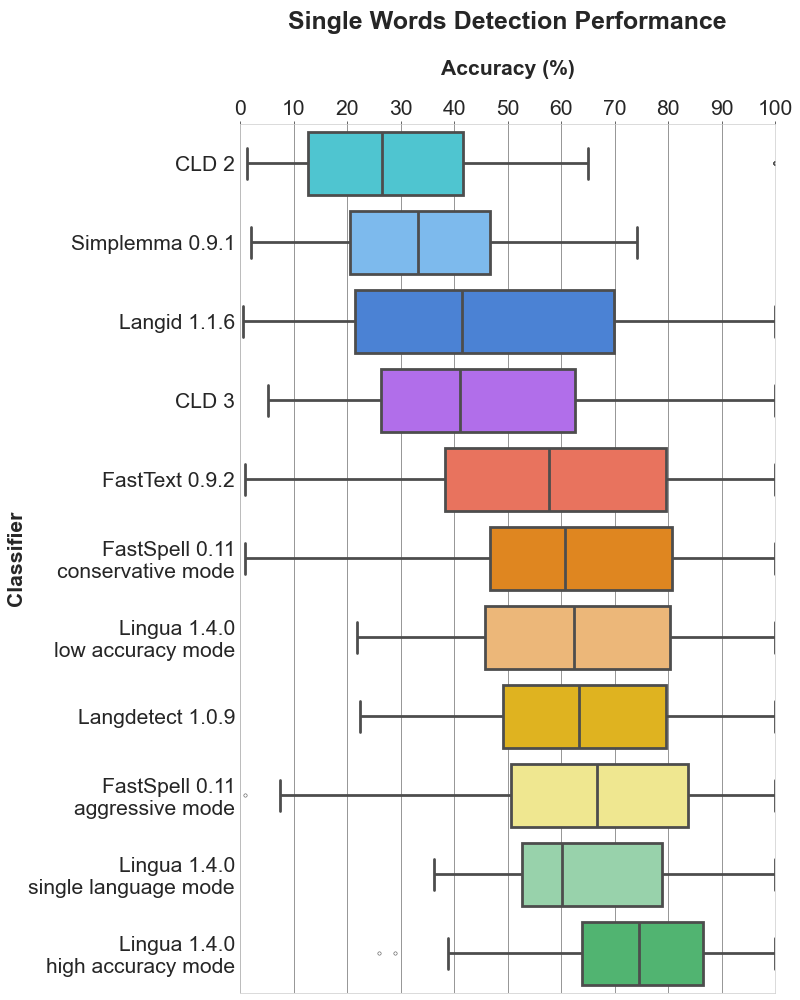
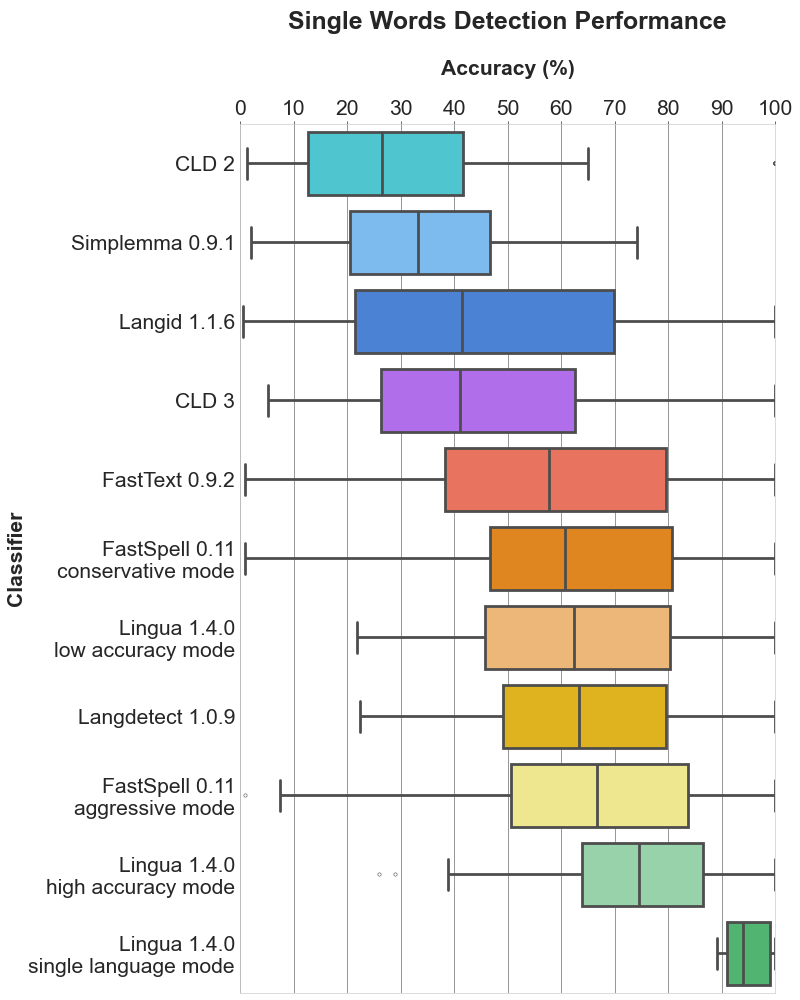
Draw single language mode box plots

diff --git a/scripts/accuracy_plot_drawer.py b/scripts/accuracy_plot_drawer.py
@@ -49,6 +49,9 @@ class AccuracyPlotDrawer:
         "lingua-single-language-detector": "Lingua 1.4.0\nsingle language mode",
         "simplemma": "Simplemma 0.9.1",
     }
+    _single_language_mode_columns = [
+        f"lingua-{language.name.lower()}-detector" for language in Language
+    ]
     _hatches = ("|", "-", "/", "x", "+", "\\", "o", "oo", ".", "*", "O")
     _palette = (
         "#39d7e6",
@@ -72,17 +75,13 @@ class AccuracyPlotDrawer:
     def _read_into_dataframe(self, report_file_path: Path) -> pd.DataFrame:
         df = pd.read_csv(report_file_path, index_col="language")
 
-        single_language_mode_columns = [
-            f"lingua-{language.name.lower()}-detector" for language in Language
-        ]
         merged_single_language_mode_column = {
-            "lingua-single-language-detector": df[single_language_mode_columns].mean(
-                axis="columns"
-            )
+            "lingua-single-language-detector": df[
+                self._single_language_mode_columns
+            ].mean(axis="columns")
         }
-        df = df.assign(**merged_single_language_mode_column).drop(
-            single_language_mode_columns, axis="columns"
-        )
+
+        df = df.assign(**merged_single_language_mode_column)
 
         # Sort classifier columns by their mean value
         df = df.reindex(df.mean().sort_values().index, axis="columns")
@@ -185,6 +184,48 @@ class AccuracyPlotDrawer:
         plt.tight_layout()
         plt.savefig(file_path, dpi=self._dpi)
 
+    def draw_single_language_mode_boxplot(self, file_path: Path):
+        row_filter = self._dataframe[self._hue].isin(self._single_language_mode_columns)
+        data = self._dataframe[row_filter]
+        labels = [language.name.title() for language in Language]
+
+        plt.figure(figsize=(20, 150))
+        plt.title(
+            self._plot_title + "\nSingle Language Mode\n",
+            fontsize=self._title_fontsize,
+            fontweight=self._fontweight,
+        )
+        plt.xticks(fontsize=self._ticks_fontsize, ticks=self._ticks)
+        plt.yticks(fontsize=self._ticks_fontsize)
+        plt.grid(color=self._grid_color)
+
+        axes = sns.boxplot(
+            data=data,
+            x="accuracy",
+            hue="classifier",
+            y="classifier",
+            linewidth=5,
+            legend=False,
+        )
+
+        axes.set_xlim((0, 100))
+        axes.xaxis.tick_top()
+        axes.xaxis.set_label_position("top")
+        axes.tick_params(axis="both", which="major", labelsize=self._label_fontsize)
+        axes.tick_params(axis="both", which="minor", labelsize=self._label_fontsize)
+        axes.set_ylabel(
+            "Classifier", fontsize=self._label_fontsize, fontweight=self._fontweight
+        )
+        axes.set_xlabel(
+            "Accuracy (%)\n", fontsize=self._label_fontsize, fontweight=self._fontweight
+        )
+        # set_yticklabels should only be called after set_yticks
+        axes.set_yticks(axes.get_yticks())
+        axes.set_yticklabels(labels)
+
+        plt.tight_layout()
+        plt.savefig(file_path, dpi=self._dpi)
+
 
 if __name__ == "__main__":
     report_directory_path = Path(__file__).parent / "../accuracy-reports"
@@ -199,5 +240,8 @@ if __name__ == "__main__":
         )
         drawer.draw_barplot(file_path=plot_directory_path / f"barplot-{prefix}.png")
         drawer.draw_boxplot(file_path=plot_directory_path / f"boxplot-{prefix}.png")
+        drawer.draw_single_language_mode_boxplot(
+            file_path=plot_directory_path / f"boxplot-single-language-mode-{prefix}.png"
+        )
 
     print("All plots created successfully")
